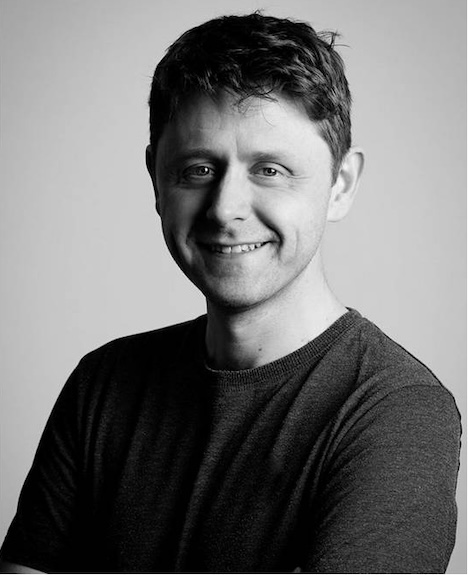
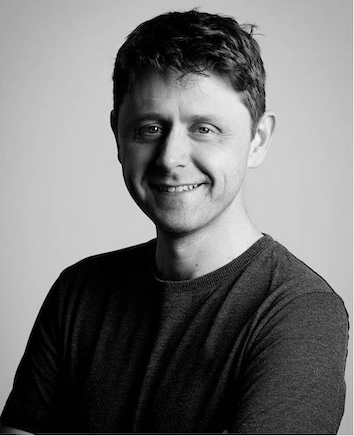
Portrait

Changed region(s): [[0.0932, 0.9839, 0.9633, 1.0], [0.0, 0.9839, 0.0621, 1.0]]

diff --git a/files/osteopathy-greenwich.html b/files/osteopathy-greenwich.html
@@ -19,7 +19,7 @@
   <div class="main-article">
     <h3>Osteopathy in Greenwich, UK</h3>
     <img class="portrait-large" src="../images/portrait.jpg" alt="Jonathan Edis" style="float: right; height: 340px; border-radius: 5px;">
-    <img class="portrait-small" src="../images/portrait-small.jpg" alt="Jonathan Edis" style="float: right; height: 340px; border-radius: 5px;">
+    <img class="portrait-small" src="../images/portrait-small.jpg" alt="Jonathan Edis" style="float: right; height: 200px; border-radius: 5px;">
     <h4>What do you offer?  </h4>
     <ul>
     <li>I offer private osteopathic consultations for adults (18+) in Greenwich.  </li>
